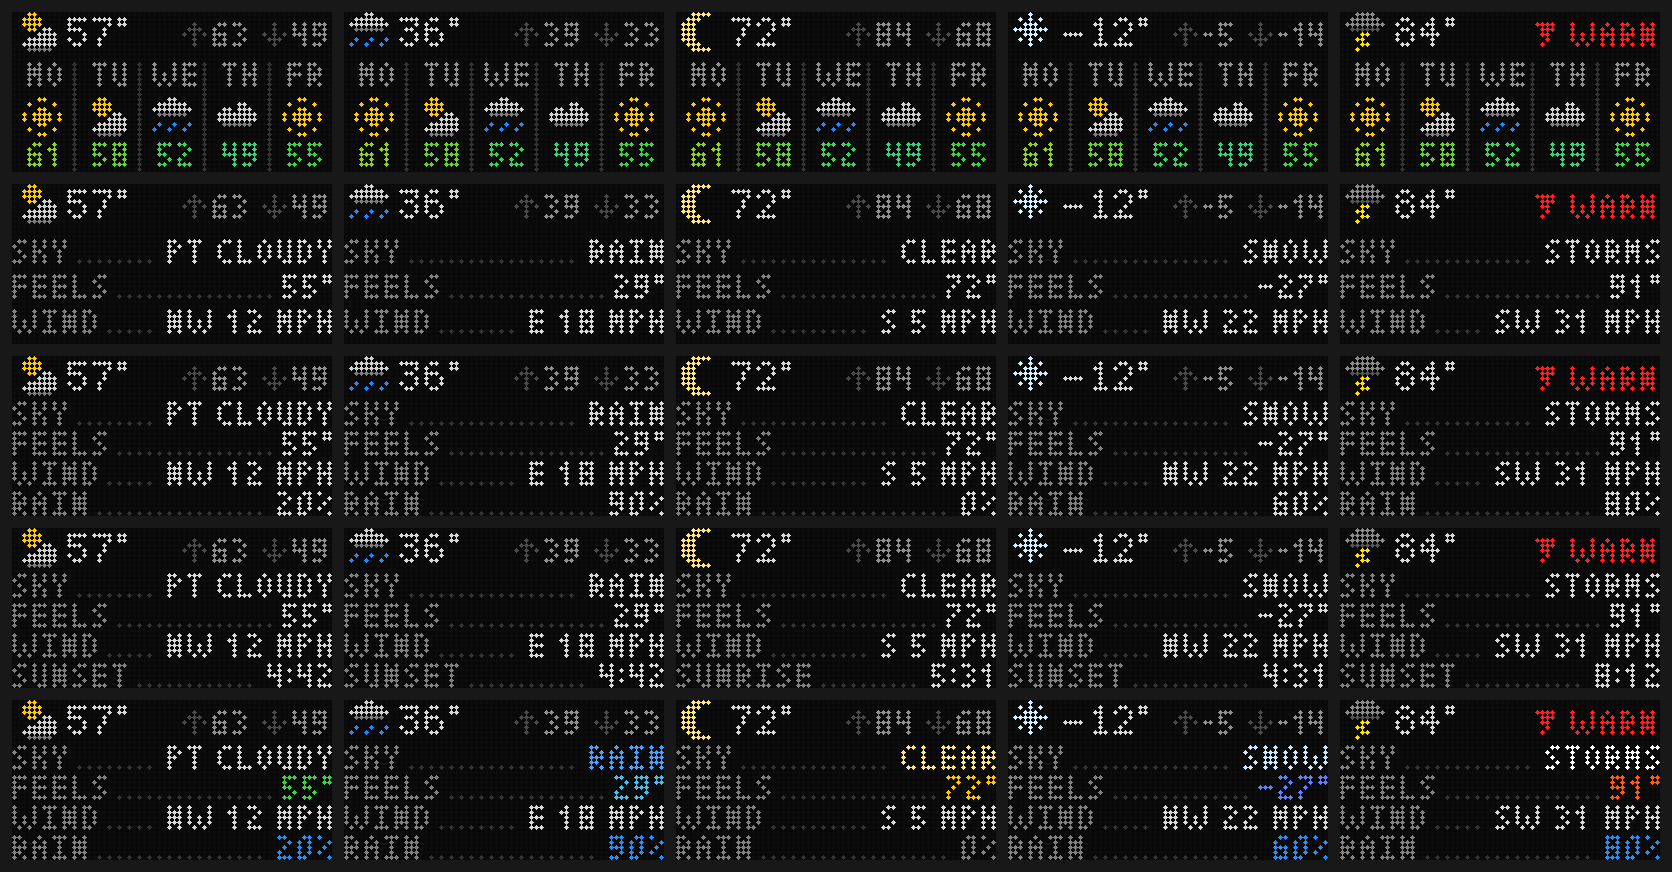
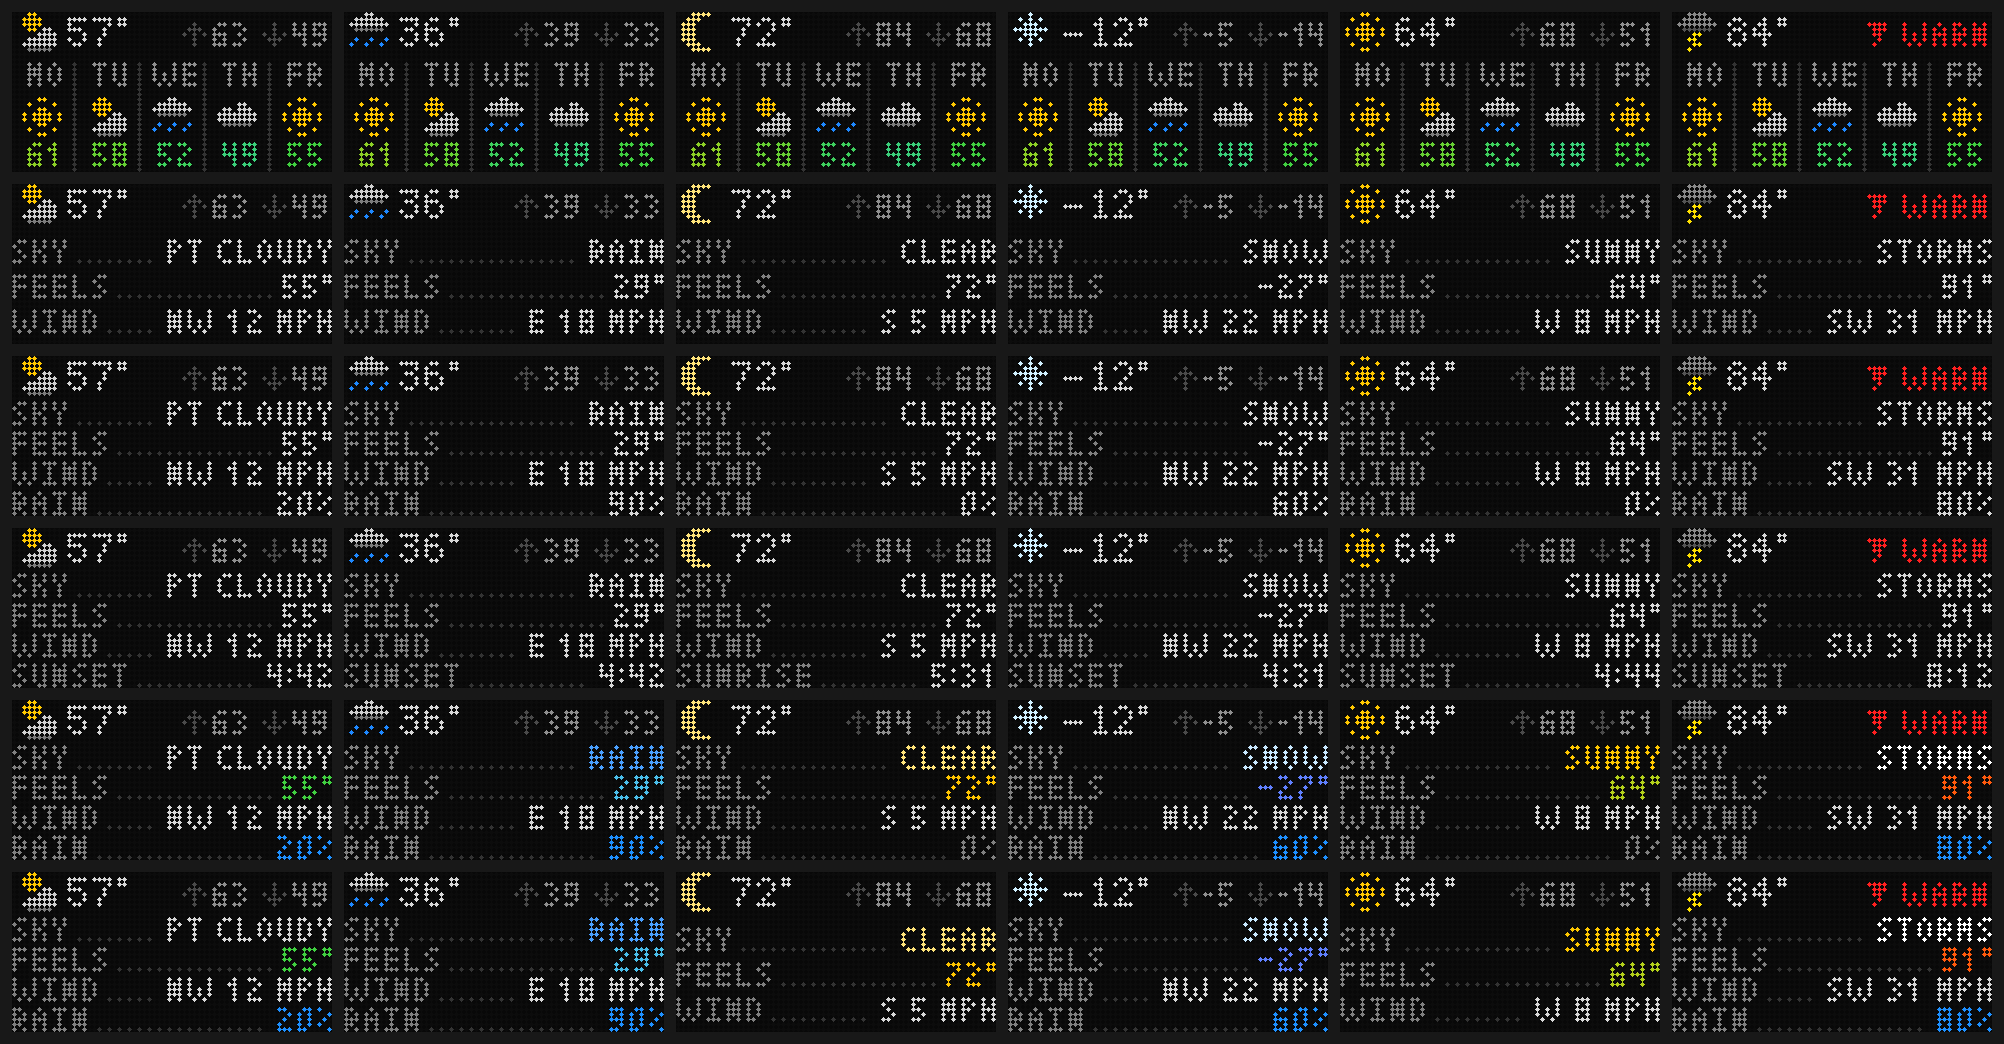
Weather readout pick: color values, RAIN line only while there's a chance (3-line rhythm otherwise)
Claude-Session: https://claude.ai/code/session_01G1nRWzncNKnx6hLjwpEaGw

Changed region(s): [[0.0, 0.0, 0.9952, 0.9908]]

diff --git a/scripts/mock-weather-readout.js b/scripts/mock-weather-readout.js
@@ -49,6 +49,7 @@ const STATES = [
   { id: 'b-rain', temp: 36, icon: 'rain', word: 'RAIN', feels: 29, wind: 'E 18', hi: 39, lo: 33, pop: 90, sun: ['SUNSET', '4:42'] },
   { id: 'c-night', temp: 72, icon: 'moon', word: 'CLEAR', feels: 72, wind: 'S 5', hi: 84, lo: 68, pop: 0, sun: ['SUNRISE', '5:31'] },
   { id: 'd-cold', temp: -12, icon: 'snow', word: 'SNOW', feels: -27, wind: 'NW 22', hi: -5, lo: -14, pop: 60, sun: ['SUNSET', '4:31'] },
+  { id: 'f-dry', temp: 64, icon: 'sun', word: 'SUNNY', feels: 64, wind: 'W 8', hi: 68, lo: 51, pop: 0, sun: ['SUNSET', '4:44'] },
   { id: 'e-warning', temp: 84, icon: 'storm', word: 'STORMS', feels: 91, wind: 'SW 31', hi: 89, lo: 70, pop: 80, sun: ['SUNSET', '8:12'], warn: { kind: 'tor', lvl: 'warning' } },
 ];
 
@@ -108,7 +109,22 @@ const VARIANTS = [
     line(f, 'RAIN', `${w.pop}%`, 32, w.pop ? C.blue : C.label);
     return f;
   } },
+  { id: '5-color-auto', title: 'COLOR, RAIN ONLY WHEN LIKELY', fn: (w) => final(w) },
 ];
+
+// The pick (Nov 1): the color readout, with the RAIN line only while there's
+// a chance of rain. Without it the other three lines take the 3-line rhythm
+// (rows 11-15, 18-22, 25-29, the first on the 5-day's weekday row), so the
+// screen never shows an empty slot.
+function final(w) {
+  const f = topBar(w);
+  const bases = w.pop > 0 ? [14, 20, 26, 32] : [16, 23, 30];
+  line(f, 'SKY', w.word, bases[0], KIND[w.icon] || C.value);
+  line(f, 'FEELS', `${w.feels}°`, bases[1], tempColor(w.feels));
+  line(f, 'WIND', `${w.wind} MPH`, bases[2]);
+  if (w.pop > 0) line(f, 'RAIN', `${w.pop}%`, bases[3], C.blue);
+  return f;
+}
 
 const frames = VARIANTS.map((V) => STATES.map((w) => {
   const f = V.fn(w);
@@ -128,4 +144,19 @@ frames.forEach((row, r) => row.forEach((f, c) => {
   }
 }));
 fs.writeFileSync(path.join(OUT, 'sheet.png'), PNG.sync.write(sheet));
+
+// The pick on its own sheet.
+const pick = frames[frames.length - 1];
+const one = new PNG({ width: STATES.length * (fw + GAP) + GAP, height: fh + 2 * GAP });
+one.data.fill(24);
+for (let i = 3; i < one.data.length; i += 4) one.data[i] = 255;
+pick.forEach((f, c) => {
+  const img = PNG.sync.read(f.toPNG(SC));
+  const ox = GAP + c * (fw + GAP);
+  for (let y = 0; y < fh; y++) for (let x = 0; x < fw; x++) {
+    const si = (y * fw + x) * 4, di = ((GAP + y) * one.width + ox + x) * 4;
+    for (let k = 0; k < 4; k++) one.data[di + k] = img.data[si + k];
+  }
+});
+fs.writeFileSync(path.join(OUT, 'pick.png'), PNG.sync.write(one));
 console.log(`wrote ${OUT}`);
